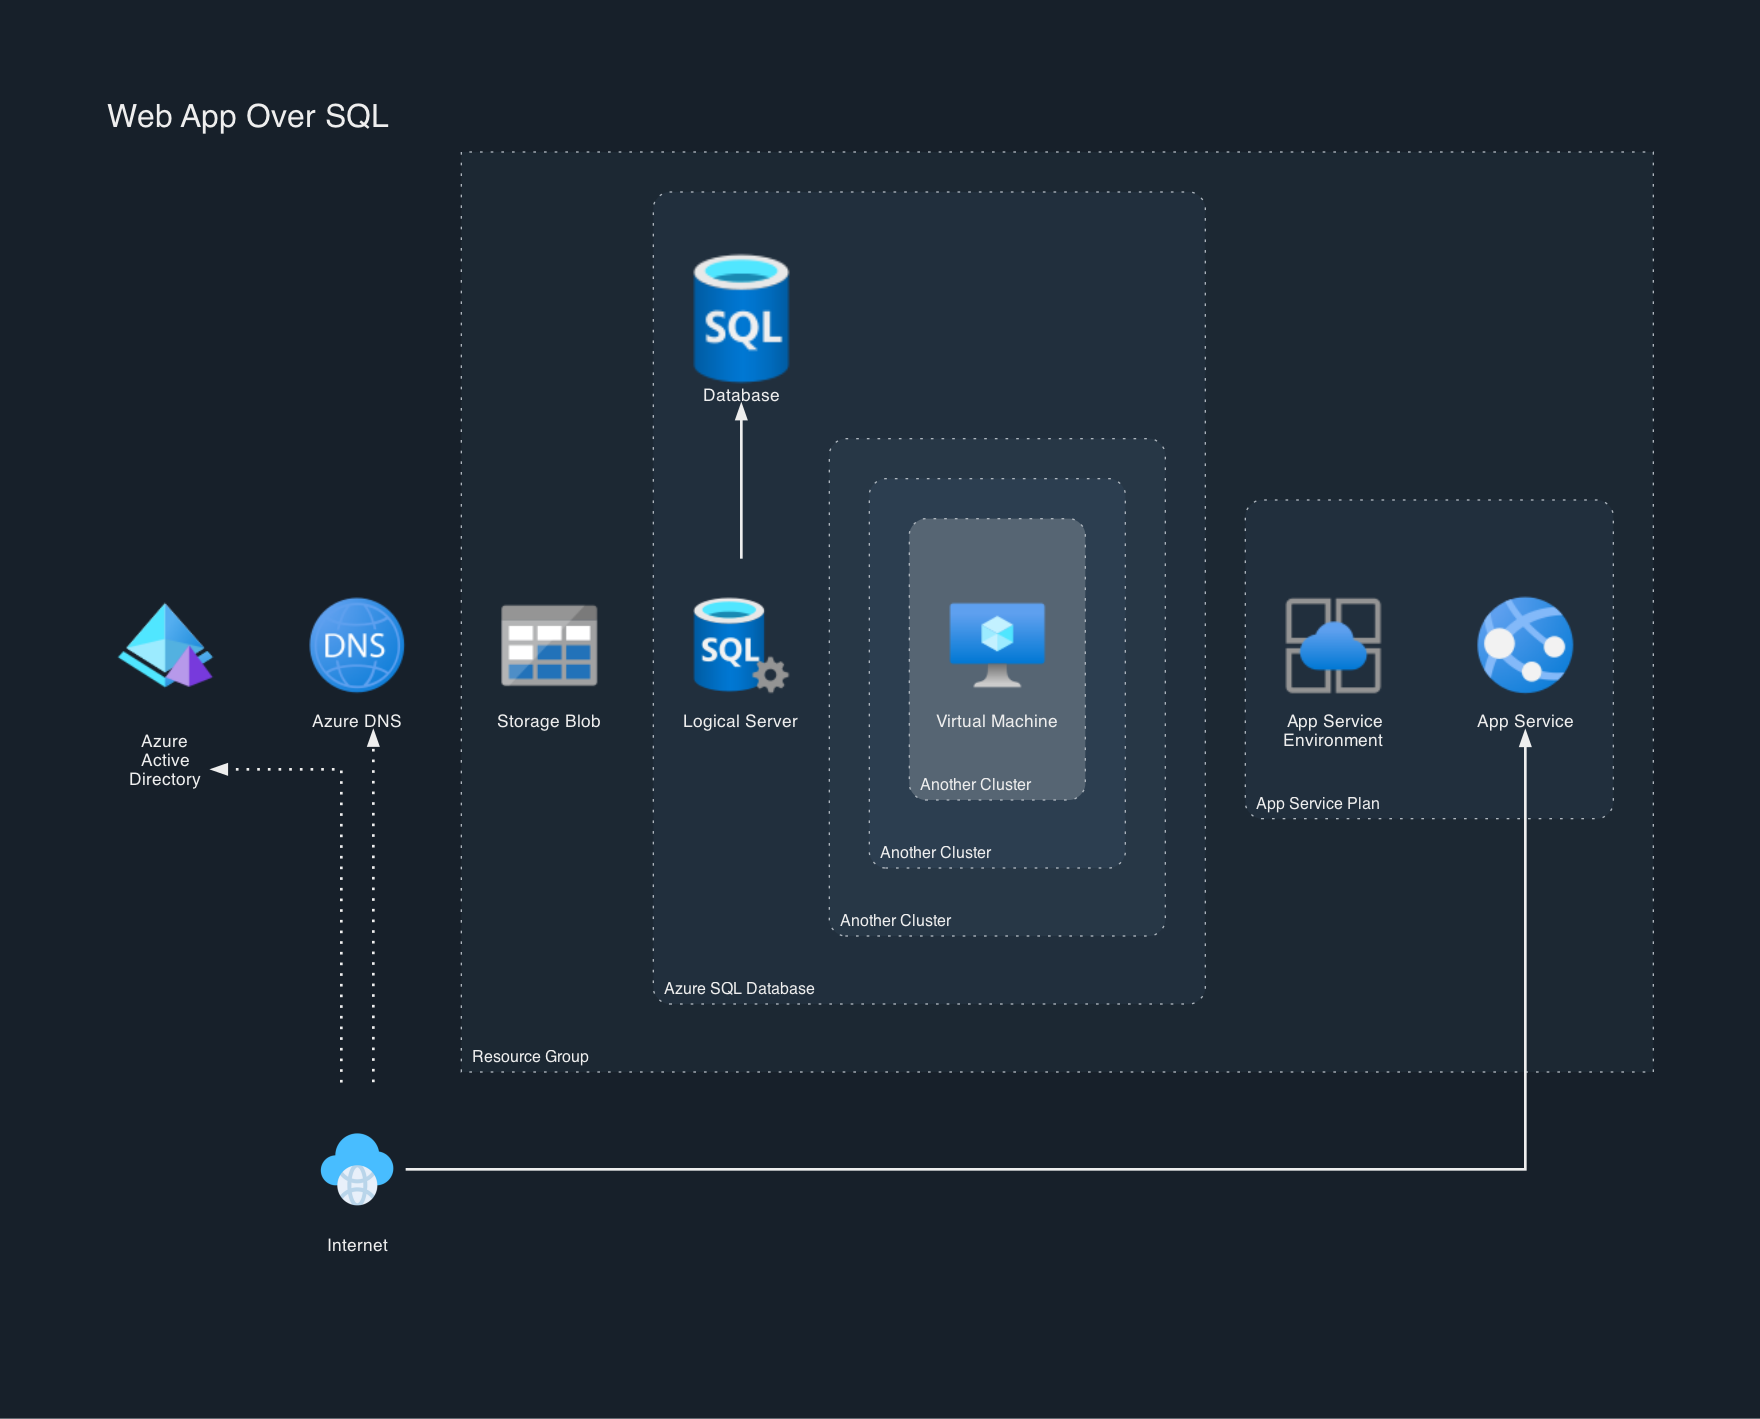
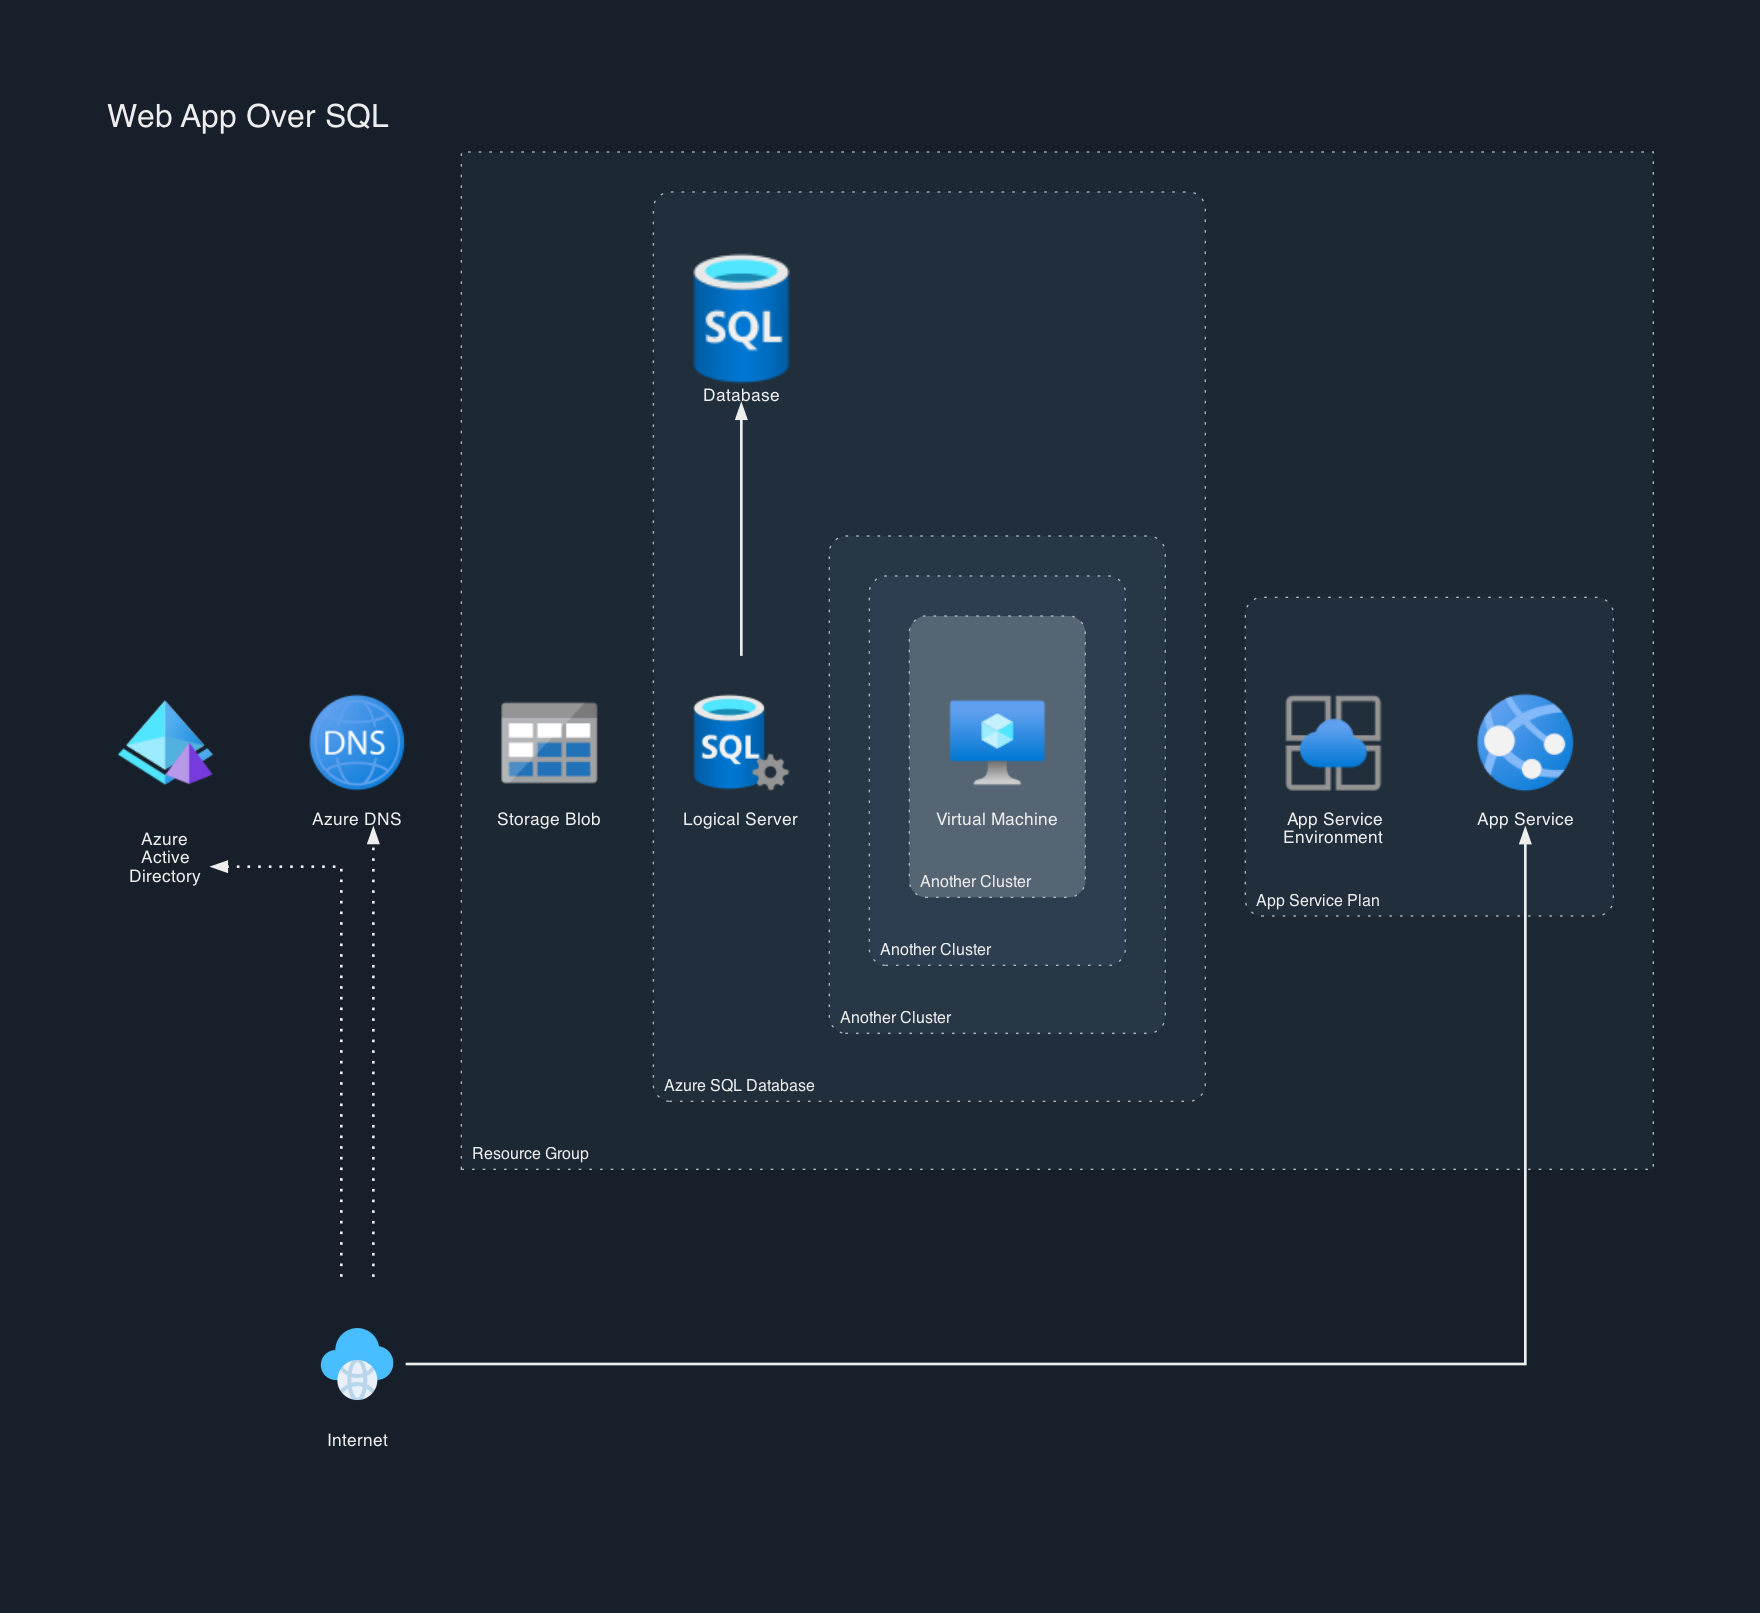
added some more examples

diff --git a/examples/serverless-web-app.py b/examples/serverless-web-app.py
@@ -1,7 +1,9 @@
 from architectures.core import Graph, Cluster, Group, Node, Edge, Flow
 from architectures.themes import LightMode
 
-from architectures.providers.azure.general import Internet
+from architectures.providers.azure.hierarchies import Subscription, ResourceGroup
+
+from architectures.providers.azure.general import Internet, Computer
 from architectures.providers.azure.identity import AzureActiveDirectoryDomainServices
 from architectures.providers.azure.management import ApiManagementService, AzureMonitor
 from architectures.providers.azure.application import FunctionApp
@@ -10,33 +12,31 @@ from architectures.providers.azure.networking import CdnProfile
 from architectures.providers.azure.storage import StorageAccountBlobCool
 from architectures.providers.azure.deployment import AzurePipelines
 
-theme = LightMode(
-    edge_attr_overrides={"minlen": "1.5"},
-    graph_attr_overrides={"nodesep": "1"}
-)
+theme = LightMode()
 
 with Graph('Serverless Web App', theme=theme):
 
-    with Cluster("Resource Group") as resource_group:
-        with Cluster("Static Content") as static_content:
-            cdn = CdnProfile("CDN")
-            storage = StorageAccountBlobCool("Blob Storage")
+    with Subscription() as subscription:
+        with ResourceGroup() as resource_group:
+            with Cluster("Static Content") as static_content:
+                cdn = CdnProfile("CDN")
+                storage = StorageAccountBlobCool("Blob Storage")
 
-        with Cluster("API") as api:
-            api_management = ApiManagementService("API Management")
-            function_app = FunctionApp("Function App")
-            cosmos_db = AzureCosmosDb("Cosmos DB")
-
-    with Group() as other_services:
-        azure_pipelines = AzurePipelines("Azure Pipelines")
-        monitor = AzureMonitor("Monitor")
+            with Cluster("API") as api:
+                api_management = ApiManagementService()
+                function_app = FunctionApp()
+                cosmos_db = AzureCosmosDb()
 
     with Group():
-        user = Node("")
-        azure_ad = AzureActiveDirectoryDomainServices("Azure Active Directory")
-        internet = Internet("Single-Page Web Application")
+        azure_pipelines = AzurePipelines()
+        monitor = AzureMonitor()
 
-    Edge(user, azure_ad, style="dotted", label="Sign In")
+    with Group():
+        user = Computer()
+        azure_ad = AzureActiveDirectoryDomainServices("AAD")
+        internet = Internet()
+
+    Edge(user, azure_ad, style="dotted", xlabel="Sign In")
     Edge([api_management, function_app], azure_ad, style="dotted", xlabel="Auth")
     Edge(internet, cdn, xlabel="Http GET")
     Edge(internet, api_management, xlabel="Http GET AJAX Request")

diff --git a/examples/intelligent-search.py b/examples/intelligent-search.py
@@ -1,0 +1,33 @@
+from architectures.core import Graph, Cluster, Group, Node, Edge, Flow
+from architectures.themes import DarkMode, LightMode
+
+from architectures.providers.azure.hierarchies import Subscription, ResourceGroup
+
+from architectures.providers.azure.general import Computer
+from architectures.providers.azure.application import ApplicationService
+from architectures.providers.azure.ai import BotService, CognitiveServicesSearch, CognitiveServices
+from architectures.providers.azure.data import SqlDatabase
+from architectures.providers.azure.compute import VirtualMachine
+
+theme = LightMode(graph_attr_overrides={"nodesep":"3"})
+
+with Graph("Intelligent Search", theme=theme):
+    computer = Computer()
+    with Subscription():
+        with ResourceGroup():
+            with Cluster() as app_service_cluster:
+                app_service = ApplicationService()
+            with Cluster() as bot_service_cluster:
+                bot_service = BotService()
+            with Cluster() as cognitive_search_cluster:
+                cognitive_search = CognitiveServicesSearch()
+            with Cluster() as cognitive_services_cluster:
+                cognitive_services = CognitiveServices()
+            with Cluster() as database_cluster:
+                database = SqlDatabase()
+
+    Flow([computer, app_service_cluster, cognitive_search_cluster])
+    Flow([computer, bot_service_cluster, cognitive_search_cluster])
+    Edge(cognitive_search_cluster, database_cluster, dir="both")
+    Edge(cognitive_search_cluster, cognitive_services_cluster, dir="both")
+    Edge(app_service_cluster, database_cluster, dir="both")

diff --git a/architectures/themes/__init__.py b/architectures/themes/__init__.py
@@ -194,7 +194,7 @@ class LightMode(_Theme):
             "splines": "ortho",
             "nodesep": "1.0",
             "ranksep": "1.0",
-            "fontname": "Sans-Serif",
+            "fontname": "Calibri",
             "fontsize": "24",
             "fontcolor": "#2D3436",
             "style": "rounded",
@@ -208,7 +208,7 @@ class LightMode(_Theme):
             "style": "rounded",
             "labeljust": "l",
             "pencolor": "#AEB6BE",
-            "fontname": "Sans-Serif",
+            "fontname": "Calibri",
             "fontsize": "12",
             "margin": "30"
         }
@@ -221,7 +221,7 @@ class LightMode(_Theme):
             "height": "1.8",
             "labelloc": "b",
             "imagescale": "true",
-            "fontname": "Sans-Serif",
+            "fontname": "Calibri",
             "fontsize": "13",
             "fontcolor": "#2D3436",
             "color": "invis"
@@ -230,10 +230,11 @@ class LightMode(_Theme):
         self.edge_attrs = {
             "penwidth": "2",
             "margin": "1",
-            "minlen": "1.0"
+            "minlen": "2.0",
+            "fontname": "Calibri"
         }
 
-        self.colors = ["#f3faff", "#e7f5fe", "#dbf0fe", "#cfebfd"]
+        self.colors = ["#FDFEFE", "#F7F9F9", "#F4F6F7", "#ECF0F1"]
 
         if graph_attr_overrides is not None:
             self.graph_attrs.update(graph_attr_overrides)
@@ -298,7 +299,7 @@ class DarkMode(_Theme):
         self.edge_attrs = {
             "penwidth": "2",
             "margin": "1",
-            "minlen": "1.0",
+            "minlen": "2.0",
             "color": "#EEEEEE"
         }
 

diff --git a/architectures/core/__init__.py b/architectures/core/__init__.py
@@ -280,7 +280,7 @@ class Node():
 
     _default_label = None
 
-    def __init__(self, label="", **attrs):
+    def __init__(self, label="", wrap_label_text=True, **attrs):
         """
         :param str label: Label for a node.
         """
@@ -300,10 +300,11 @@ class Node():
         self._cluster = get_cluster()
 
         # Auto-wrap labels
-        if self._cluster is not None:
-            self.label = wrap_text(self.label, len(self._cluster.label))
-        else:
-            self.label = wrap_text(self.label)
+        if wrap_label_text:
+            if self._cluster is not None:
+                self.label = wrap_text(self.label, len(self._cluster.label))
+            else:
+                self.label = wrap_text(self.label)
 
         # Set node attributes based on the theme using copy to ensure the objects are independent
         self.node_attrs = self._graph.theme.node_attrs.copy()

diff --git a/examples/simple.py b/examples/simple.py
@@ -1,0 +1,23 @@
+from architectures.core import Graph, Cluster, Group, Node, Edge, Flow
+from architectures.themes import DarkMode, LightMode
+
+from architectures.providers.azure.hierarchies import Subscription, ResourceGroup
+
+from architectures.providers.azure.data import DataLake
+from architectures.providers.azure.compute import VirtualMachine
+from architectures.providers.azure.networking import ApplicationGateway
+
+theme = LightMode()
+
+with Graph("Simple", theme=theme):
+    app_gateway = ApplicationGateway()
+    with Cluster():
+        vms = [
+            VirtualMachine(),
+            VirtualMachine(),
+            VirtualMachine()
+        ]
+    database = DataLake()
+
+    Edge(app_gateway, vms)
+    Edge(vms, database)

diff --git a/examples/modern-data-warehouse.py b/examples/modern-data-warehouse.py
@@ -18,12 +18,12 @@ with Graph("Modern Data Warehouse", theme=theme, show=True):
         with Cluster("Store") as store:
             data_lake = DataLake("Data Lake")
 
-    with Cluster("Prep and train") as train:
-        databricks = AzureDatabricks("Azure Databricks")
-
     with Cluster("Model") as model:
         analysis_services = AnalysisService("Azure Analysis Services")
         synapse_analytics = AzureSynapseAnalytics("Azure Synapse Analytics")
+
+    with Cluster("Prep and train") as train:
+        databricks = AzureDatabricks("Azure Databricks")
 
     with Cluster("Serve") as serve:
         power_bi = PowerBi("Power BI")

diff --git a/architectures/providers/azure/general.py b/architectures/providers/azure/general.py
@@ -106,6 +106,10 @@ class ServiceCatalogManagedApplicationDefinition(_General):
 	_icon = "service-catalog-managed-application-definition.png"
 	_default_label = "Service Catalog Managed Application Definition"
 
+class Computer(_General):
+	_icon = "computer.png"
+	_default_label = "Computer"
+
 class AllResources(_General):
 	_icon = "all-resources.png"
 	_default_label = "All Resources"
